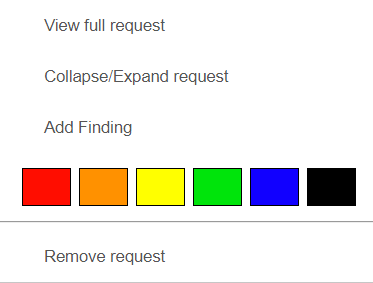
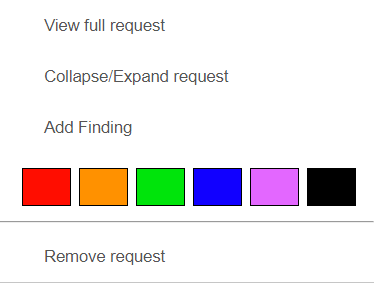
Replaced yellow outline.

diff --git a/templates/view.html b/templates/view.html
@@ -60,9 +60,9 @@
   <div class = "color-menu" id="color-menu">
     <button class = "color" id="#ff0d00" style="background-color: #ff0d00;"> </button>
     <button class = "color" id="#ff9100" style="background-color: #ff9100;"> </button>
-    <button class = "color" id="#ffff00" style="background-color: #ffff00;"> </button>
     <button class = "color" id="#00e40b" style="background-color: #00e40b;"> </button>
     <button class = "color" id="#1100ff" style="background-color: #1100ff;"> </button>
+    <button class = "color" id="#e367ff" style="background-color: #e367ff;"> </button>
     <button class = "color" id="#000000" style="background-color: #000000;"> </button>
   </div>
   <hr>
